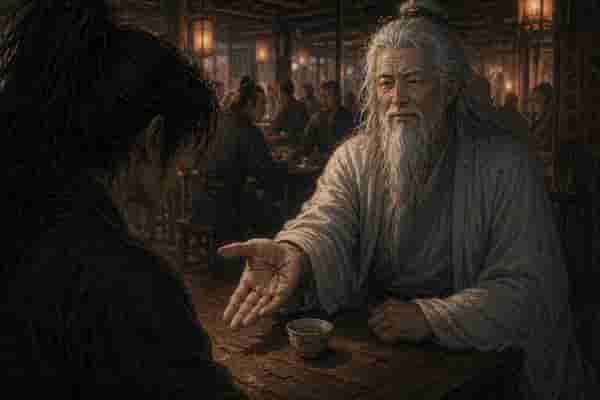
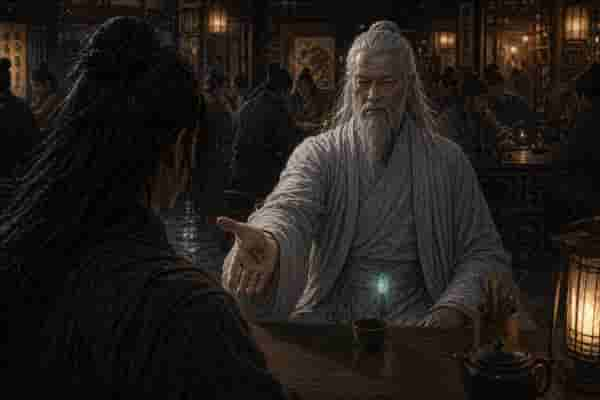
feat: recompress 神秘老人 full illustration set + add elder-true-form
All 8 mysterious-elder illustrations (meet, bond-1~4, ending, afterstory,
afterstory-ending) recompressed from updated source PNGs; portrait likewise.
New elder-true-form illustration compressed (HQ 275KB, LQ 10KB).

diff --git a/index.html b/index.html
@@ -4,7 +4,7 @@
     <meta charset="UTF-8">
     <meta name="viewport" content="width=device-width, initial-scale=1.0, maximum-scale=1.0">
     <title>轮回江湖</title>
-    <link rel="stylesheet" href="css/styles.css?v=0.21.55">
+    <link rel="stylesheet" href="css/styles.css?v=0.21.56">
 </head>
 <body>
 
@@ -203,14 +203,14 @@ if (localStorage.getItem('wuxia_save')) {
         <div class="loading-text">读取存档中</div>`;
 }
 </script>
-<script src="js/audio.js?v=0.21.55"></script>
-<script src="js/character.js?v=0.21.55"></script>
-<script src="js/npc.js?v=0.21.55"></script>
-<script src="js/combat.js?v=0.21.55"></script>
-<script src="js/rebirth.js?v=0.21.55"></script>
-<script src="js/engine.js?v=0.21.55"></script>
-<script src="js/gallery.js?v=0.21.55"></script>
-<script src="js/ui.js?v=0.21.55"></script>
+<script src="js/audio.js?v=0.21.56"></script>
+<script src="js/character.js?v=0.21.56"></script>
+<script src="js/npc.js?v=0.21.56"></script>
+<script src="js/combat.js?v=0.21.56"></script>
+<script src="js/rebirth.js?v=0.21.56"></script>
+<script src="js/engine.js?v=0.21.56"></script>
+<script src="js/gallery.js?v=0.21.56"></script>
+<script src="js/ui.js?v=0.21.56"></script>
 <script>
 (async function() {
     await Engine.init();

diff --git a/sw.js b/sw.js
@@ -1,6 +1,6 @@
 // Service worker: cache-first for all image assets
 // Bump CACHE_NAME when images are updated to force re-download
-const CACHE_NAME = 'wuxia-v0.21.55';
+const CACHE_NAME = 'wuxia-v0.21.56';
 
 // Install: activate immediately without blocking on image downloads
 // Images are cached lazily on first access via the fetch handler below

diff --git a/PROGRESS.md b/PROGRESS.md
@@ -1,6 +1,13 @@
 # 轮回江湖 — 开发进度
 
-## 当前版本：v0.21.55
+## 当前版本：v0.21.56
+
+---
+
+### v0.21.56（2026-04-24）
+
+- 重新压缩神秘老人全套插画（meet、bond-1~4、ending、afterstory、afterstory-ending）及立绘 JPEG
+- 新增 elder-true-form 插画压缩（HQ + LQ）
 
 ---
 

diff --git a/README.md b/README.md
@@ -1,4 +1,4 @@
-# 轮回江湖（开发中）v0.21.55
+# 轮回江湖（开发中）v0.21.56
 
 > 武侠风世界线回溯类文字冒险游戏 · 纯 HTML/CSS/JS · GitHub Pages 可直接部署
 
